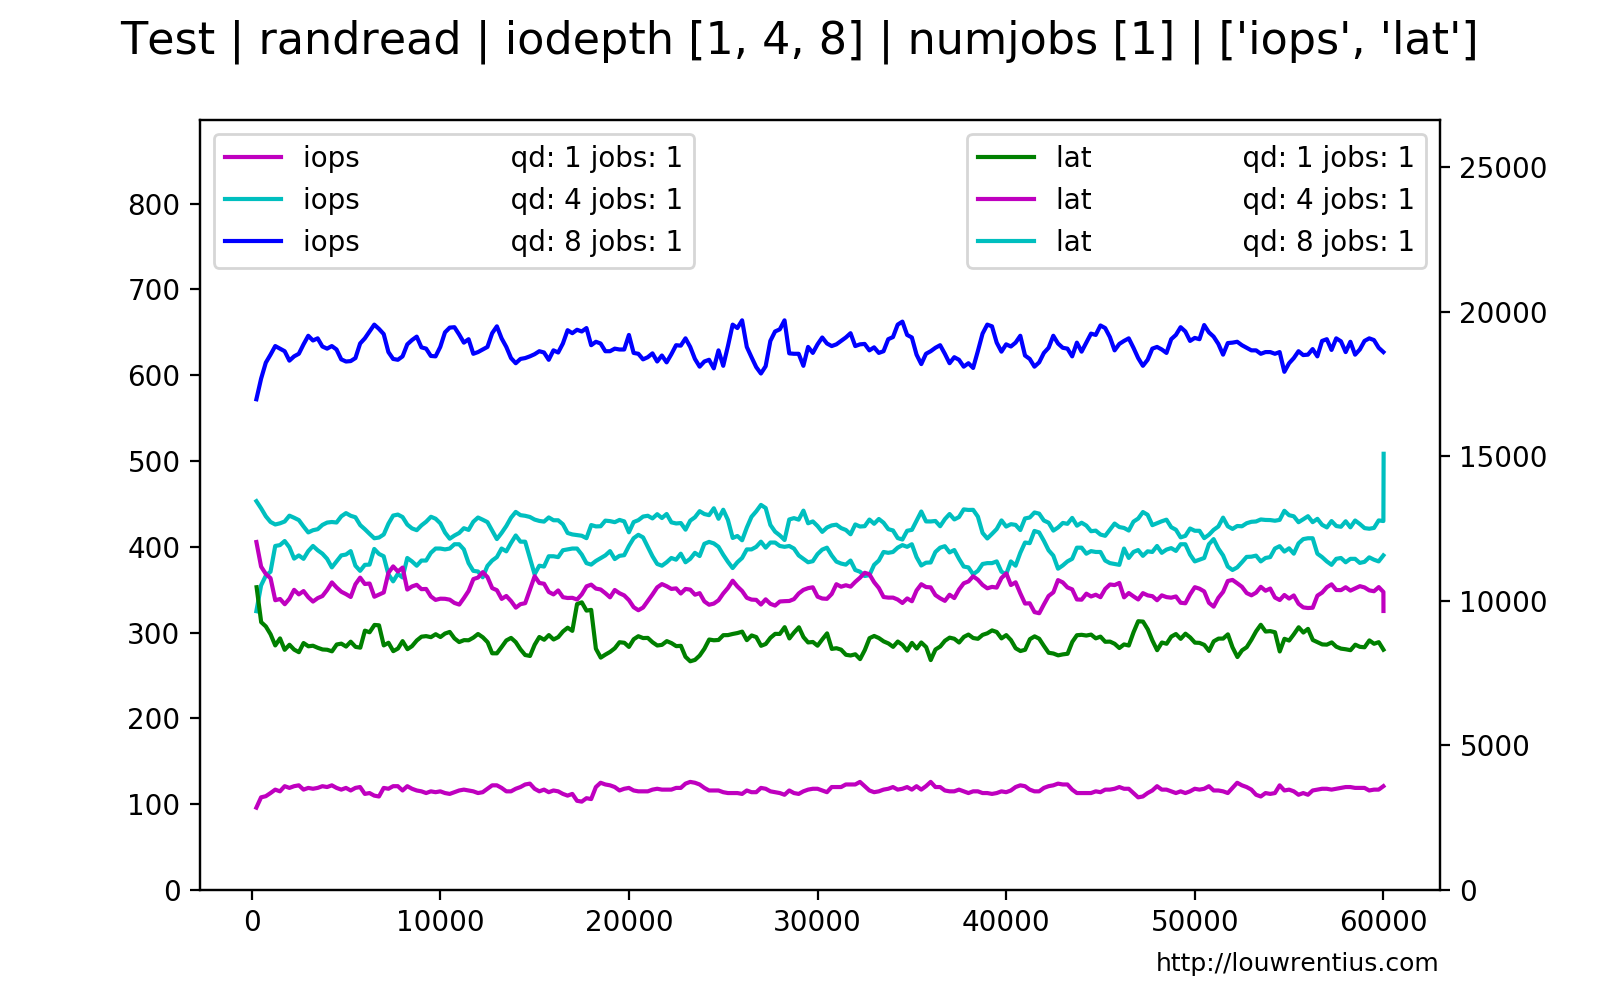
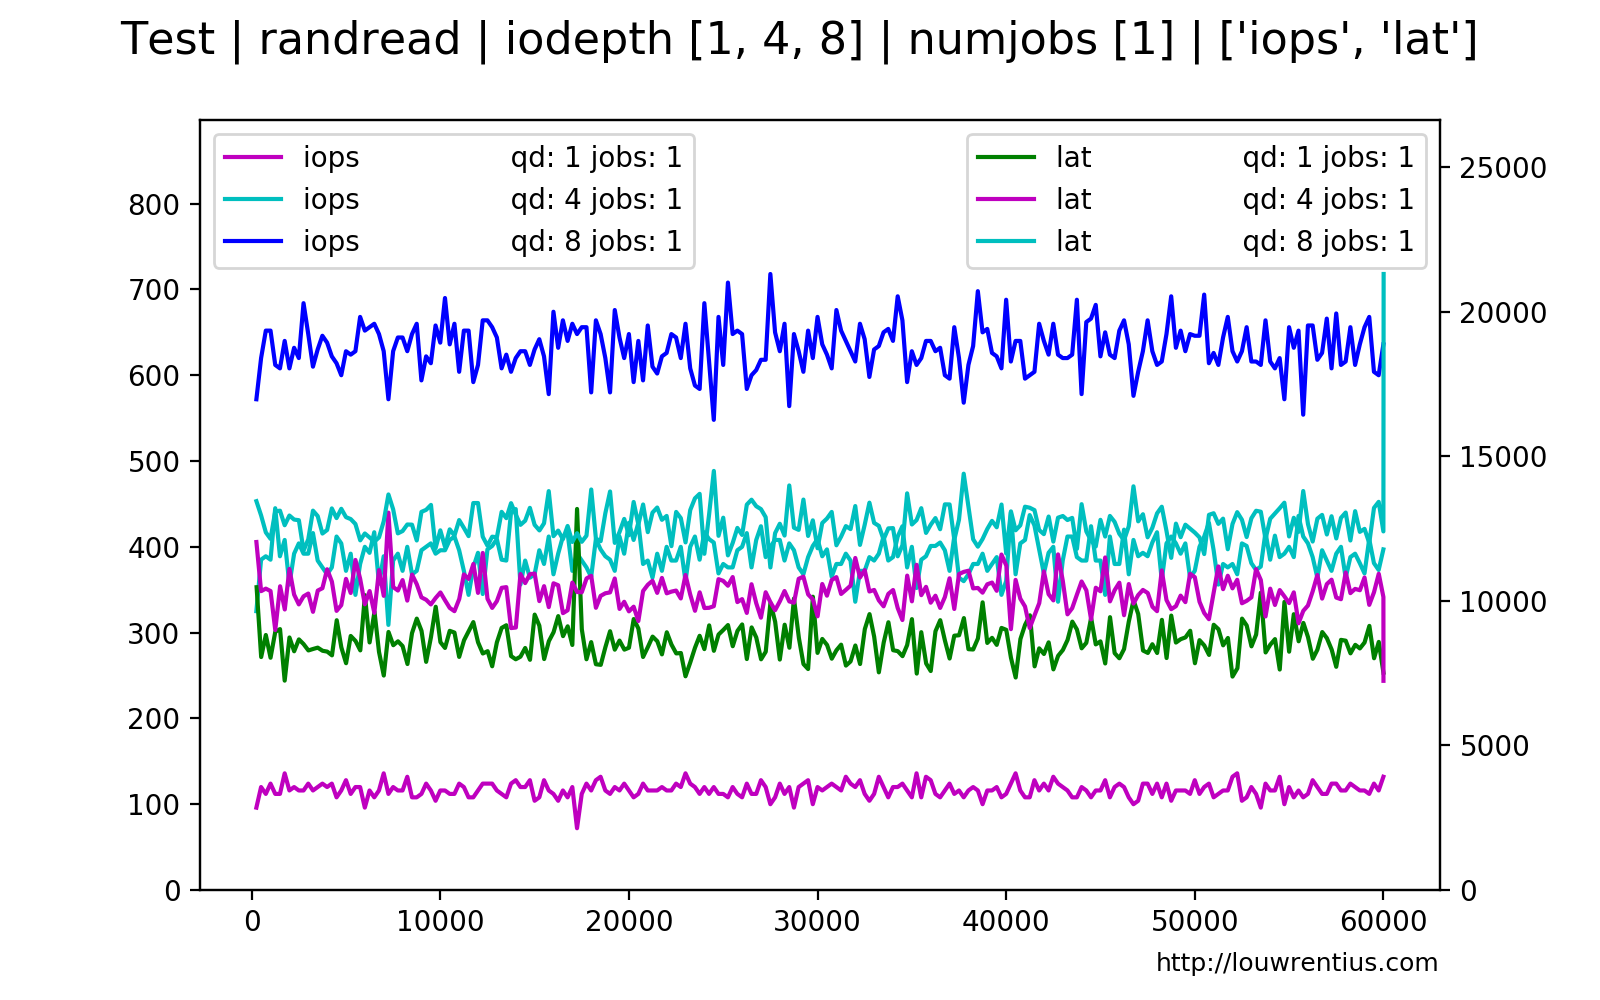
added parameter for controlling moving average parameter for graph data'

Changed region(s): [[0.1562, 0.465, 0.875, 0.682], [0.1562, 0.279, 0.875, 0.403], [0.1562, 0.775, 0.875, 0.837]]

diff --git a/fio_plot/fiolib/graph2d.py b/fio_plot/fiolib/graph2d.py
@@ -3,6 +3,7 @@ import matplotlib.pyplot as plt
 from matplotlib import rcParams, cycler
 import numpy as np
 import pprint as pprint
+import fiolib.supporting as supporting
 
 
 def chart_2d_log_data(config, data):
@@ -31,27 +32,14 @@ def chart_2d_log_data(config, data):
     axes = {'lat': ax2, 'iops': ax1, 'bw': ax1, 'slat': ax2, 'clat': ax2}
     legend_position = {ax1: 'upper left', ax2: 'upper right'}
 
-    def running_mean(l, N):
-        sum = 0
-        result = list(0 for x in l)
-
-        for i in range(0, N):
-            sum = sum + l[i]
-            result[i] = sum / (i+1)
-
-        for i in range(N, len(l)):
-            sum = sum - l[i-N] + l[i]
-            result[i] = sum / N
-
-        return result
-
     for item in data:
 
         print(item['type'])
         unpacked = list(zip(*item['data']))
         params = []
 
-        running = running_mean(unpacked[1], 4)
+        running = supporting.running_mean(
+            unpacked[1], config['moving_average'])
         maximum = max(unpacked[1]) * 1.25
         axes[item['type']].plot(
             unpacked[0], running, label=f"{item['type']} \
@@ -59,14 +47,6 @@ def chart_2d_log_data(config, data):
             color=colors.pop())
         axes[item['type']].legend(loc=legend_position[axes[item['type']]])
         axes[item['type']].set_ylim([0, maximum])
-        # if 'lat' in item['type']:
-        #    ax2.plot(unpacked[0], unpacked[1],
-        #             label=f"{item['type']} qd: {item['iodepth']} jobs: {item['numjobs']}", color=colors.pop())
-        #    ax2.legend(loc='best')
-        # else:
-        #    ax1.plot(unpacked[0], unpacked[1],
-        #             label=f"{item['type']} qd: {item['iodepth']} jobs: {item['numjobs']}", color=colors.pop())
-        #    ax1.legend(bbox_to_anchor=(0, ))
 
     # if config['max_y']:
 

diff --git a/fio_plot/fiolib/supporting.py b/fio_plot/fiolib/supporting.py
@@ -1,0 +1,16 @@
+#!/usr/local/bin env
+
+
+def running_mean(l, N):
+    sum = 0
+    result = list(0 for x in l)
+
+    for i in range(0, N):
+        sum = sum + l[i]
+        result[i] = sum / (i+1)
+
+    for i in range(N, len(l)):
+        sum = sum - l[i-N] + l[i]
+        result[i] = sum / N
+
+    return result
